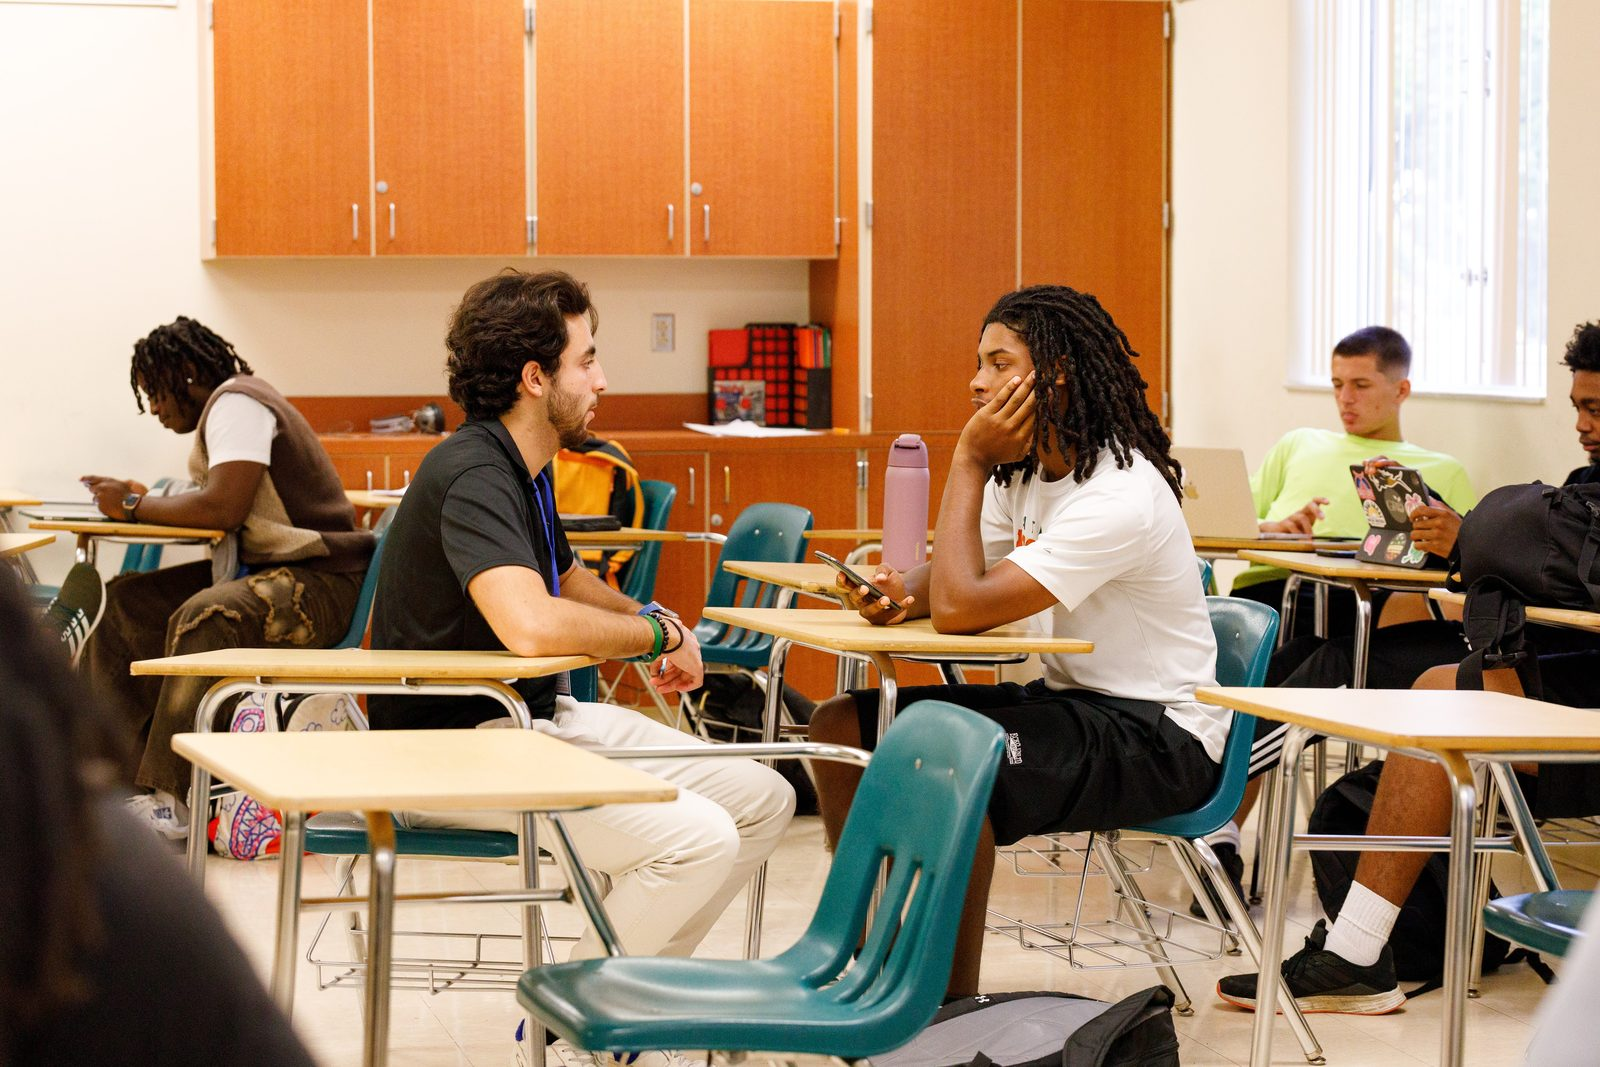
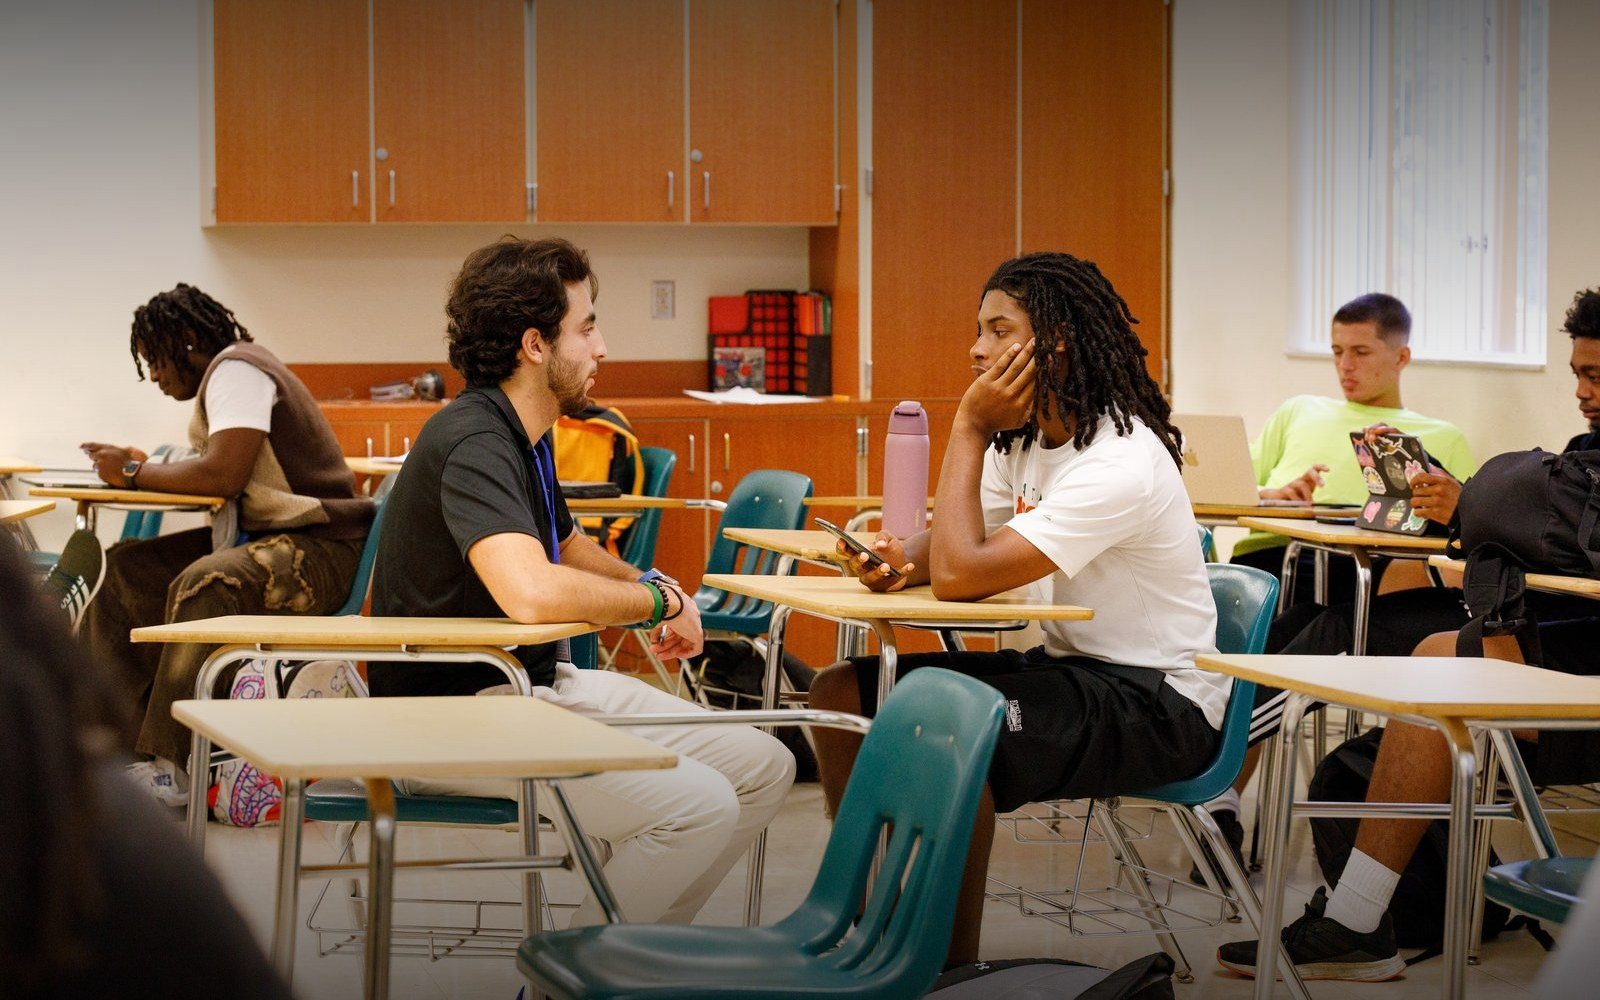
Add top/bottom gradient dim to all three program photos
The Students photo already had a top gradient; added matching bottom gradient. The Model and Results photos get both top and bottom gradients now, matching color/intensity across all three.

Claude-Session: https://claude.ai/code/session_015eNAuB2LDyr9GM2ABpJr4N

diff --git a/index.html b/index.html
@@ -79,17 +79,17 @@
     <div class="program-col">
       <h3>The Model</h3>
       <p>Our education program connects student athletes in their last years of high school with young-adult mentors who help them navigate college, careers, and life beyond sports.</p>
-      <img src="program-the-model.jpg" alt="A Bigger Than Sports mentor in a one-on-one conversation with a student athlete">
+      <img src="program-the-model.jpg?v=20261116a" alt="A Bigger Than Sports mentor in a one-on-one conversation with a student athlete">
     </div>
     <div class="program-col">
       <h3>The Students</h3>
       <p>We serve student athletes in under-resourced Title 1 schools, many of whom have built their identity around their sport and have limited access to counselors, career guidance, or a family roadmap for what happens after graduation.</p>
-      <img src="program-the-students.jpg?v=20261115a" alt="Bigger Than Sports student athletes clapping at their desks during a classroom session">
+      <img src="program-the-students.jpg?v=20261116a" alt="Bigger Than Sports student athletes clapping at their desks during a classroom session">
     </div>
     <div class="program-col">
       <h3>The Results</h3>
       <p>Students leave our program with a concrete plan for college, a trade, or a career, along with the confidence to see themselves as more than an athlete, so that when the game ends, they know they have the tools to pursue a dream that is bigger than sports.</p>
-      <img src="program-the-results.jpg?v=20261115a" alt="A Bigger Than Sports student holding his Certificate of Completion with his mentors and coach">
+      <img src="program-the-results.jpg?v=20261116a" alt="A Bigger Than Sports student holding his Certificate of Completion with his mentors and coach">
     </div>
   </div>
 
